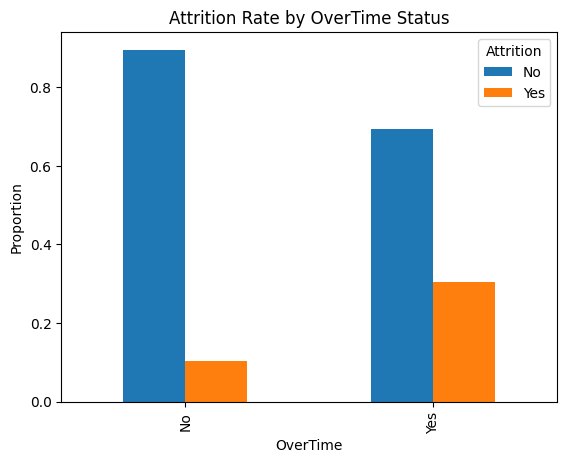
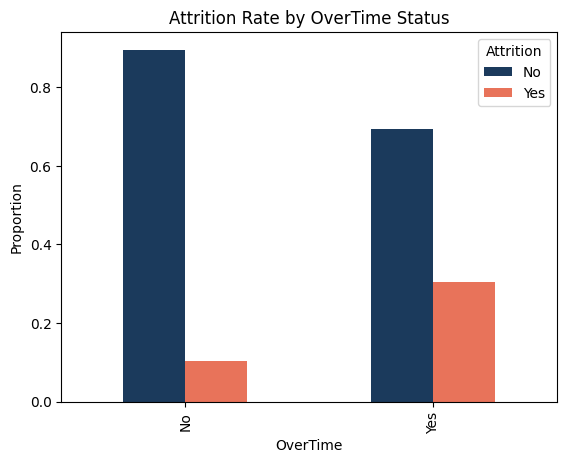
Update chart colors to navy blue and coral

Changed region(s): [[0.6296, 0.2721, 0.8995, 0.8769], [0.2099, 0.0907, 0.4497, 0.8769], [0.8395, 0.121, 0.8995, 0.2117]]

diff --git a/scripts/pipeline.py b/scripts/pipeline.py
@@ -34,7 +34,7 @@ def save_charts(df, output_dir="../outputs/charts"):
     plt.close()
     
     # Chart 2: Department vs Attrition
-    df.groupby("Department")["Attrition"].value_counts(normalize=True).unstack().plot(kind="bar", figsize=(8,5), color=["#2E86AB", "#E67E22"])
+    df.groupby("Department")["Attrition"].value_counts(normalize=True).unstack().plot(kind="bar", figsize=(8,5), color=["#1B3A5C", "#E8735A"])
     plt.title("Attrition Rate by Department", fontsize=13, fontweight="bold")
     plt.ylabel("Proportion")
     plt.xticks(rotation=15)
@@ -43,7 +43,7 @@ def save_charts(df, output_dir="../outputs/charts"):
     plt.close()
     
     # Chart 3: Income vs Attrition
-    df.groupby("Attrition")["MonthlyIncome"].mean().plot(kind="bar", figsize=(6,5), color=["#2E86AB", "#E67E22"])
+    df.groupby("Attrition")["MonthlyIncome"].mean().plot(kind="bar", figsize=(6,5), color=["#1B3A5C", "#E8735A"])
     plt.title("Average Monthly Income: Stayed vs Left", fontsize=13, fontweight="bold")
     plt.ylabel("Average Monthly Income")
     plt.xticks(rotation=0)
@@ -52,7 +52,7 @@ def save_charts(df, output_dir="../outputs/charts"):
     plt.close()
     
     # Chart 4: Satisfaction vs Attrition
-    df.groupby("Attrition")["JobSatisfaction"].mean().plot(kind="bar", figsize=(6,5), color=["#2E86AB", "#E67E22"])
+    df.groupby("Attrition")["JobSatisfaction"].mean().plot(kind="bar", figsize=(6,5), color=["#1B3A5C", "#E8735A"])
     plt.title("Average Job Satisfaction: Stayed vs Left", fontsize=13, fontweight="bold")
     plt.ylabel("Average Job Satisfaction (1-4)")
     plt.xticks(rotation=0)
